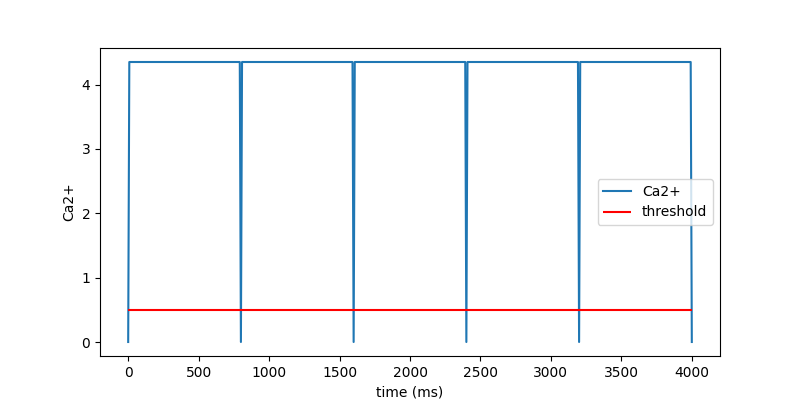
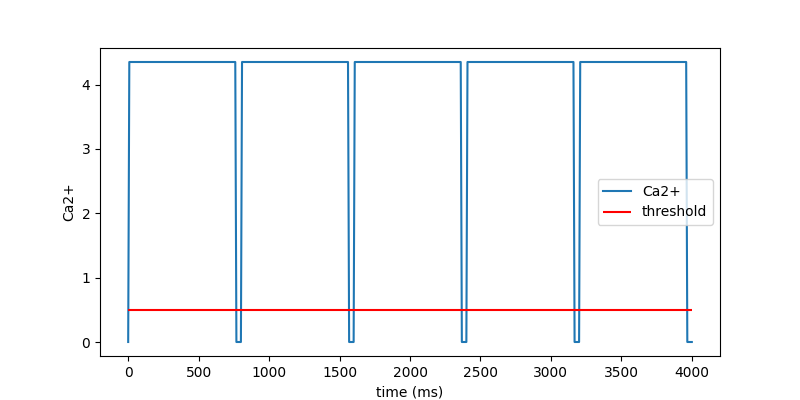
fix constant ca2+ curve for large time step

diff --git a/ansys/heart/simulator/settings/material/curve.py b/ansys/heart/simulator/settings/material/curve.py
@@ -83,8 +83,6 @@ def Kumaraswamy_active(t_end=1000) -> tuple[np.ndarray, np.ndarray]:
 def constant_ca2(tb: float = 800, ca2ionm: float = 4.35) -> tuple[np.ndarray, np.ndarray]:
     """Constant ca2 curve for Active model 1.
 
-    First and last value set to 0 for crossing threshold at each beat
-
     Parameters
     ----------
     tb : float, optional
@@ -99,8 +97,11 @@ def constant_ca2(tb: float = 800, ca2ionm: float = 4.35) -> tuple[np.ndarray, np
     """
     t = np.linspace(0, tb, 101)
     v = np.ones((101)) * ca2ionm
+    # set to 0 so across threshold at start of beat
     v[0:1] = 0
-    v[-1:] = 0
+    # set to below threshold at the last 95% of period
+    # eg. active stress will be disabled at 760ms with tb of 800ms
+    v[-5:] = 0
     return (t, v)
 
 

diff --git a/ansys/heart/writer/dynawriter.py b/ansys/heart/writer/dynawriter.py
@@ -1089,10 +1089,9 @@ class MechanicsDynaWriter(BaseDynaWriter):
                         lcint=10000,
                     )
 
-                    # curve is written even if not used
-                    self.kw_database.material.append(curve_kw)
-                    # assign curve id
-                    material.active.acid = cid if not em_couple else None
+                    if not em_couple:
+                        self.kw_database.material.append(curve_kw)
+                        material.active.acid = cid
 
                 material_kw = MaterialHGOMyocardium(
                     id=part.mid, mat=material, ignore_active=not add_active
